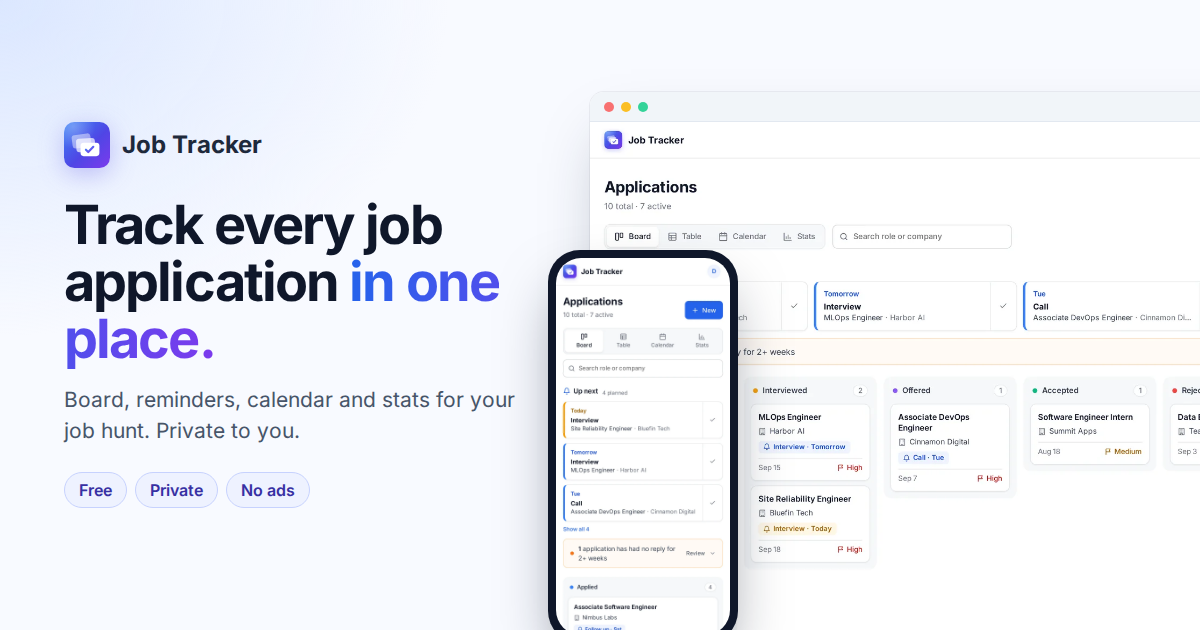
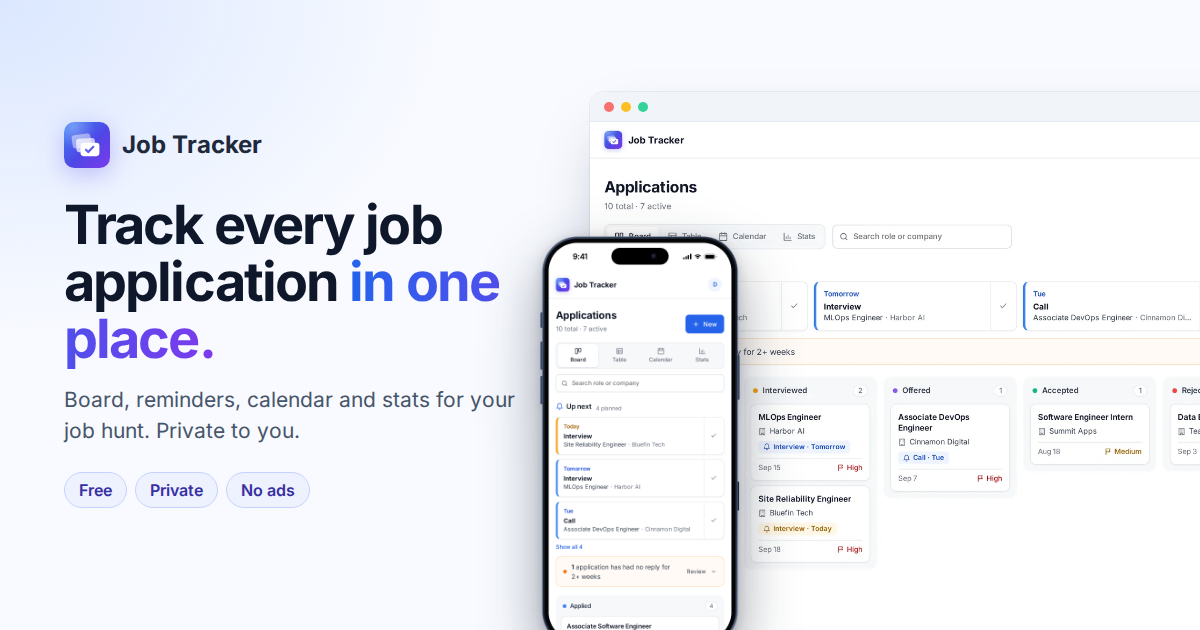
Modern footer and iPhone 17 Pro device frame
Footer: full version on the landing and privacy pages with a tagline,
Product / Privacy / Get in touch columns and the contact email; a slim
compact bar inside the app. Responsive at 860px and 700px.

Landing and link preview: the phone is now a proper iPhone 17 Pro frame
(Dynamic Island, status bar, side buttons, Camera Control) around a
screenshot at the 17 Pro's 402x874 point screen size.

Claude-Session: https://claude.ai/code/session_017qYaxawS2MvqioTFV3XaMm

Changed region(s): [[0.4317, 0.3619, 0.6475, 1.0]]

diff --git a/src/index.css b/src/index.css
@@ -184,8 +184,9 @@ a.btn.btn-light:hover { background: #eef2ff; }
 .browser-bar i { width: 11px; height: 11px; border-radius: 50%; background: #cbd5e1; }
 .browser-bar i:nth-child(1) { background: #f87171; } .browser-bar i:nth-child(2) { background: #fbbf24; } .browser-bar i:nth-child(3) { background: #34d399; }
 .browser-frame img, .phone-frame img { display: block; width: 100%; height: auto; }
-.phone-frame { margin: 0; position: absolute; right: 8px; bottom: 0; width: 22%; max-width: 250px; padding: 9px; border-radius: 36px; background: #0f172a; box-shadow: 0 30px 60px -15px rgba(15, 23, 42, 0.5); }
-.phone-frame img { border-radius: 28px; aspect-ratio: 780 / 1450; object-fit: cover; object-position: top; }
+.phone-frame { margin: 0; position: absolute; right: 8px; bottom: 0; width: 22%; max-width: 250px; }
+/* iphone.webp is the whole device (iPhone 17 Pro frame + screen) with a transparent background */
+.phone-frame img { filter: drop-shadow(0 28px 36px rgba(15, 23, 42, 0.32)) drop-shadow(0 4px 8px rgba(15, 23, 42, 0.18)); }
 
 .landing-section { padding: 72px 0; }
 .landing-section.alt { background: linear-gradient(180deg, #f8faff 0%, #ffffff 100%); border-top: 1px solid var(--border); border-bottom: 1px solid var(--border); }
@@ -248,15 +249,31 @@ a.btn.btn-light:hover { background: #eef2ff; }
 .app > main, .doc-page > .doc-wrap { flex: 1; width: 100%; }
 
 /* Footer */
-.site-footer { border-top: 1px solid var(--border); background: var(--surface); }
-.site-footer-inner { max-width: 1440px; margin: 0 auto; padding: 18px 24px; display: flex; align-items: center; gap: 12px 24px; flex-wrap: wrap; font-size: 13px; color: var(--muted); }
-.footer-brand { display: flex; align-items: center; gap: 8px; font-weight: 600; color: var(--text-2); }
+.site-footer { border-top: 1px solid var(--border); background: linear-gradient(180deg, var(--canvas), var(--bg) 70%); font-size: 14px; color: var(--muted); }
+.site-footer.compact { background: var(--surface); font-size: 13px; }
+.footer-inner { max-width: 1200px; margin: 0 auto; padding: 56px 24px 28px; }
+.footer-top { display: grid; grid-template-columns: minmax(0, 1.5fr) minmax(0, 0.8fr) minmax(0, 0.8fr) auto; gap: 40px; padding-bottom: 36px; border-bottom: 1px solid var(--border); }
+.footer-brand { display: inline-flex; align-items: center; gap: 10px; font-weight: 700; font-size: 16px; letter-spacing: -0.01em; color: var(--text); }
+.footer-brand:hover { color: var(--text); text-decoration: none; }
 .footer-brand .logo { box-shadow: none; }
-.version { font-size: 11px; font-weight: 500; color: var(--muted); background: var(--canvas); border: 1px solid var(--border); border-radius: 999px; padding: 0 7px; }
-.footer-links { display: flex; align-items: center; gap: 18px; flex-wrap: wrap; margin-left: auto; }
-.footer-links a { color: var(--text-2); font-weight: 500; }
-.footer-links a:hover { color: var(--accent); }
-.footer-copy { margin: 0; }
+.footer-about p { margin: 14px 0 16px; line-height: 1.6; max-width: 320px; }
+.footer-tags { list-style: none; padding: 0; margin: 0; display: flex; gap: 6px; flex-wrap: wrap; }
+.footer-tags li { font-size: 12px; font-weight: 600; color: #3730a3; background: #eef2ff; border: 1px solid #e0e7ff; border-radius: 999px; padding: 3px 10px; }
+.footer-col { display: flex; flex-direction: column; align-items: flex-start; gap: 10px; }
+.footer-col h2 { font-size: 12px; font-weight: 600; text-transform: uppercase; letter-spacing: 0.06em; color: var(--text); margin: 0 0 4px; }
+.footer-col a, .footer-inline a { color: var(--text-2); transition: color 0.15s; }
+.footer-col a:hover, .footer-inline a:hover { color: var(--accent); text-decoration: none; }
+.footer-muted { margin: 0; line-height: 1.5; }
+.footer-mail { display: inline-flex; align-items: center; gap: 7px; font-weight: 500; padding: 7px 12px; border: 1px solid var(--border); border-radius: var(--radius-sm); background: var(--surface); box-shadow: var(--shadow-sm); white-space: nowrap; }
+.footer-col a.footer-mail:hover { border-color: var(--accent); }
+.footer-bottom { display: flex; align-items: center; justify-content: space-between; gap: 8px 16px; flex-wrap: wrap; padding-top: 22px; font-size: 13px; }
+.footer-bottom p { margin: 0; }
+.footer-bottom p span + span::before { content: '·'; margin: 0 8px; }
+.version { font-size: 11px; font-weight: 500; color: var(--muted); background: var(--canvas); border: 1px solid var(--border); border-radius: 999px; padding: 1px 8px; }
+.footer-compact { max-width: 1440px; padding: 16px 24px; display: flex; align-items: center; gap: 10px 24px; flex-wrap: wrap; }
+.footer-compact .footer-brand { font-size: 14px; font-weight: 600; gap: 8px; }
+.footer-inline { display: flex; gap: 18px; }
+.footer-compact .footer-bottom { padding-top: 0; margin-left: auto; gap: 12px; }
 
 .navbar { position: sticky; top: 0; z-index: 20; background: rgba(255, 255, 255, 0.85); backdrop-filter: saturate(180%) blur(8px); border-bottom: 1px solid var(--border); }
 .navbar-inner { max-width: 1440px; margin: 0 auto; padding: 10px 24px; display: flex; align-items: center; gap: 10px; }
@@ -474,6 +491,8 @@ body.is-dragging, body.is-dragging * { cursor: grabbing !important; }
   .stat-row { grid-template-columns: repeat(2, minmax(0, 1fr)); }
 }
 @media (max-width: 860px) {
+  .footer-top { grid-template-columns: minmax(0, 1fr) minmax(0, 1fr) auto; }
+  .footer-about { grid-column: 1 / -1; }
   .feature-grid { grid-template-columns: repeat(2, minmax(0, 1fr)); }
   .split { grid-template-columns: minmax(0, 1fr); gap: 32px; }
   .hide-md { display: none; }
@@ -486,15 +505,22 @@ body.is-dragging, body.is-dragging * { cursor: grabbing !important; }
   .page-head h1 { font-size: 22px; }
   .hide-sm, .nav-email { display: none; }
   .account-btn { padding: 4px; }
-  .site-footer-inner { flex-direction: column; text-align: center; padding: 20px 16px 24px; gap: 10px; }
-  .footer-links { margin-left: 0; justify-content: center; gap: 14px; }
+  .footer-inner { padding: 40px 16px 24px; }
+  .footer-top { grid-template-columns: 1fr 1fr; gap: 28px 20px; }
+  .footer-about { grid-column: 1 / -1; }
+  .footer-top > .footer-col:last-child { grid-column: 1 / -1; }
+  .footer-compact { flex-direction: column; text-align: center; padding: 20px 16px 24px; }
+  .footer-compact .footer-bottom { margin-left: 0; justify-content: center; }
+  .footer-bottom { flex-direction: column; text-align: center; }
+  .footer-bottom p span { display: block; }
+  .footer-bottom p span + span::before { content: none; }
   .doc { padding: 24px 20px; }
   .landing-inner { padding: 0 16px; }
   .landing-nav-inner a.btn.ghost { display: none; }
   .hero { padding: 40px 0 8px; }
   .hero-visual { margin-top: 32px; padding-bottom: 0; }
   .show-desktop { display: none; }
-  .phone-frame { position: static; width: 72%; max-width: 300px; margin: 0 auto 8px; }
+  .phone-frame { position: static; width: 68%; max-width: 280px; margin: 0 auto 8px; }
   .landing-section { padding: 48px 0; }
   .feature-grid { grid-template-columns: minmax(0, 1fr); }
   .split { grid-template-columns: minmax(0, 1fr); gap: 28px; }

diff --git a/src/components/Footer.tsx b/src/components/Footer.tsx
@@ -1,22 +1,94 @@
 import { Link } from 'react-router-dom'
+import { useAuth } from '../lib/auth'
 import { APP_VERSION, CONTACT_EMAIL, OWNER_NAME } from '../lib/config'
-import { Logo } from './Icons'
+import { Logo, MailIcon } from './Icons'
 
-export default function Footer() {
+const mailto = `mailto:${CONTACT_EMAIL}?subject=Job%20Tracker`
+
+/**
+ * Site footer. The full version (landing, privacy) has link columns; `compact` is a slim bar for
+ * inside the app, where a big footer under the board would just be in the way.
+ */
+export default function Footer({ compact = false }: { compact?: boolean }) {
+  const { session } = useAuth()
+  const year = new Date().getFullYear()
+
+  const bottom = (
+    <div className="footer-bottom">
+      <p>
+        <span>© {year} Job Tracker</span>
+        <span>Built by {OWNER_NAME} in Sri&nbsp;Lanka</span>
+      </p>
+      <span className="version" title="App version">v{APP_VERSION}</span>
+    </div>
+  )
+
+  if (compact) {
+    return (
+      <footer className="site-footer compact">
+        <div className="footer-inner footer-compact">
+          <Link to="/" className="footer-brand">
+            <Logo size={22} />
+            <span>Job Tracker</span>
+          </Link>
+          <nav className="footer-inline" aria-label="Footer">
+            <Link to="/privacy">Privacy</Link>
+            <a href={mailto}>Contact</a>
+          </nav>
+          {bottom}
+        </div>
+      </footer>
+    )
+  }
+
   return (
     <footer className="site-footer">
-      <div className="site-footer-inner">
-        <div className="footer-brand">
-          <Logo size={22} />
-          <span>Job Tracker</span>
-          <span className="version">v{APP_VERSION}</span>
+      <div className="footer-inner">
+        <div className="footer-top">
+          <div className="footer-about">
+            <Link to="/" className="footer-brand">
+              <Logo size={28} />
+              <span>Job Tracker</span>
+            </Link>
+            <p>A simple, private board for your job hunt. Track every application, never miss a follow-up.</p>
+            <ul className="footer-tags" aria-label="Highlights">
+              <li>Free</li>
+              <li>Private</li>
+              <li>No ads</li>
+            </ul>
+          </div>
+
+          <nav className="footer-col" aria-label="Product">
+            <h2>Product</h2>
+            {session ? (
+              <>
+                <Link to="/">Your applications</Link>
+                <Link to="/profile">Profile &amp; settings</Link>
+              </>
+            ) : (
+              <>
+                <Link to="/login?mode=signup">Create an account</Link>
+                <Link to="/login">Sign in</Link>
+              </>
+            )}
+          </nav>
+
+          <nav className="footer-col" aria-label="Trust">
+            <h2>Privacy</h2>
+            <Link to="/privacy">Privacy policy</Link>
+            <Link to={session ? '/profile' : '/privacy'}>Delete your data</Link>
+          </nav>
+
+          <div className="footer-col">
+            <h2>Get in touch</h2>
+            <p className="footer-muted">Questions, ideas or a bug to report?</p>
+            <a className="footer-mail" href={mailto}>
+              <MailIcon size={15} />
+              {CONTACT_EMAIL}
+            </a>
+          </div>
         </div>
-        <nav className="footer-links" aria-label="Footer">
-          <Link to="/privacy">Privacy</Link>
-          <a href={`mailto:${CONTACT_EMAIL}?subject=Job%20Tracker`}>Contact</a>
-          <span>Built by {OWNER_NAME}</span>
-        </nav>
-        <p className="footer-copy">© {new Date().getFullYear()} Job Tracker</p>
+        {bottom}
       </div>
     </footer>
   )

diff --git a/src/pages/Landing.tsx b/src/pages/Landing.tsx
@@ -108,10 +108,10 @@ export default function Landing() {
             </figure>
             <figure className="phone-frame">
               <img
-                src={img('mobile.webp')}
-                width={780}
-                height={1688}
-                alt="Job Tracker on a phone, showing the Up next reminders"
+                src={img('iphone.webp')}
+                width={880}
+                height={1808}
+                alt="Job Tracker on an iPhone 17 Pro, showing the Up next reminders"
                 loading="lazy"
               />
             </figure>

diff --git a/src/components/Icons.tsx b/src/components/Icons.tsx
@@ -128,6 +128,12 @@ export const ArrowLeftIcon = (p: IconProps) => (
     <path d="M19 12H5M12 19l-7-7 7-7" />
   </Icon>
 )
+export const MailIcon = (p: IconProps) => (
+  <Icon {...p}>
+    <rect x="3" y="5" width="18" height="14" rx="2" />
+    <path d="m3 7 9 6 9-6" />
+  </Icon>
+)
 export const ShieldIcon = (p: IconProps) => (
   <Icon {...p}>
     <path d="M12 22s8-4 8-10V5l-8-3-8 3v7c0 6 8 10 8 10z" />

diff --git a/src/components/AppShell.tsx b/src/components/AppShell.tsx
@@ -19,7 +19,7 @@ export default function AppShell({ children }: { children: ReactNode }) {
         </div>
       </nav>
       <main className="page">{children}</main>
-      <Footer />
+      <Footer compact />
     </div>
   )
 }

diff --git a/CLAUDE.md b/CLAUDE.md
@@ -33,8 +33,10 @@ Every new table **must** have RLS enabled and policies scoped to `auth.uid()`.
 ## Routing & landing
 - `#/` shows the Tracker when signed in and the Landing page when signed out. If there is a message to show
   (auth notice, email-link error, account-deleted flag), signed-out `#/` redirects to `#/login` so it isn't lost.
-- Landing screenshots live in `public/landing/*.webp` (board 1600×1111, stats 1600×1111, mobile 780×1688), loaded
-  via `import.meta.env.BASE_URL`. Retake them when the UI changes noticeably.
+- Landing screenshots live in `public/landing/*.webp` (board 1600×1111, stats 1600×1111), loaded via
+  `import.meta.env.BASE_URL`. `iphone.webp` (880×1808, transparent) is the whole device: an iPhone 17 Pro frame
+  (402×874pt screen, Dynamic Island, status bar, Action/volume/side buttons, Camera Control) around a 402×812
+  screenshot. The same device image is used in `og-image.png`. Retake them when the UI changes noticeably.
 - Link previews: Open Graph + Twitter tags in `index.html` point at the absolute URL of `public/og-image.png`
   (1200×630). Update the image and tags together, and re-scrape with LinkedIn's Post Inspector after changing them.
 
@@ -100,7 +102,8 @@ src/
   components/AccountMenu.tsx  Avatar menu (display name): Profile & settings, Privacy, Sign out
   components/DeleteAccountDialog.tsx  Typed-DELETE confirm; opened from the Profile page
   components/PasswordInput.tsx  Password field with show/hide eye toggle (use for every password input)
-  components/Footer.tsx  Site footer (logo, v{APP_VERSION}, Privacy, Contact, Built by <name>, no link) on tracker + privacy pages
+  components/Footer.tsx  Full footer (brand + tagline, Product / Privacy / Get in touch columns, © + Built by <name> in
+                       Sri Lanka + version) on landing + privacy; `compact` slim bar inside AppShell. No portfolio link
   components/Icons.tsx  Inline SVG icons + Logo (SVG, unique gradient ids via useId)
 supabase/migrations/   SQL migrations, run in order
 ```
